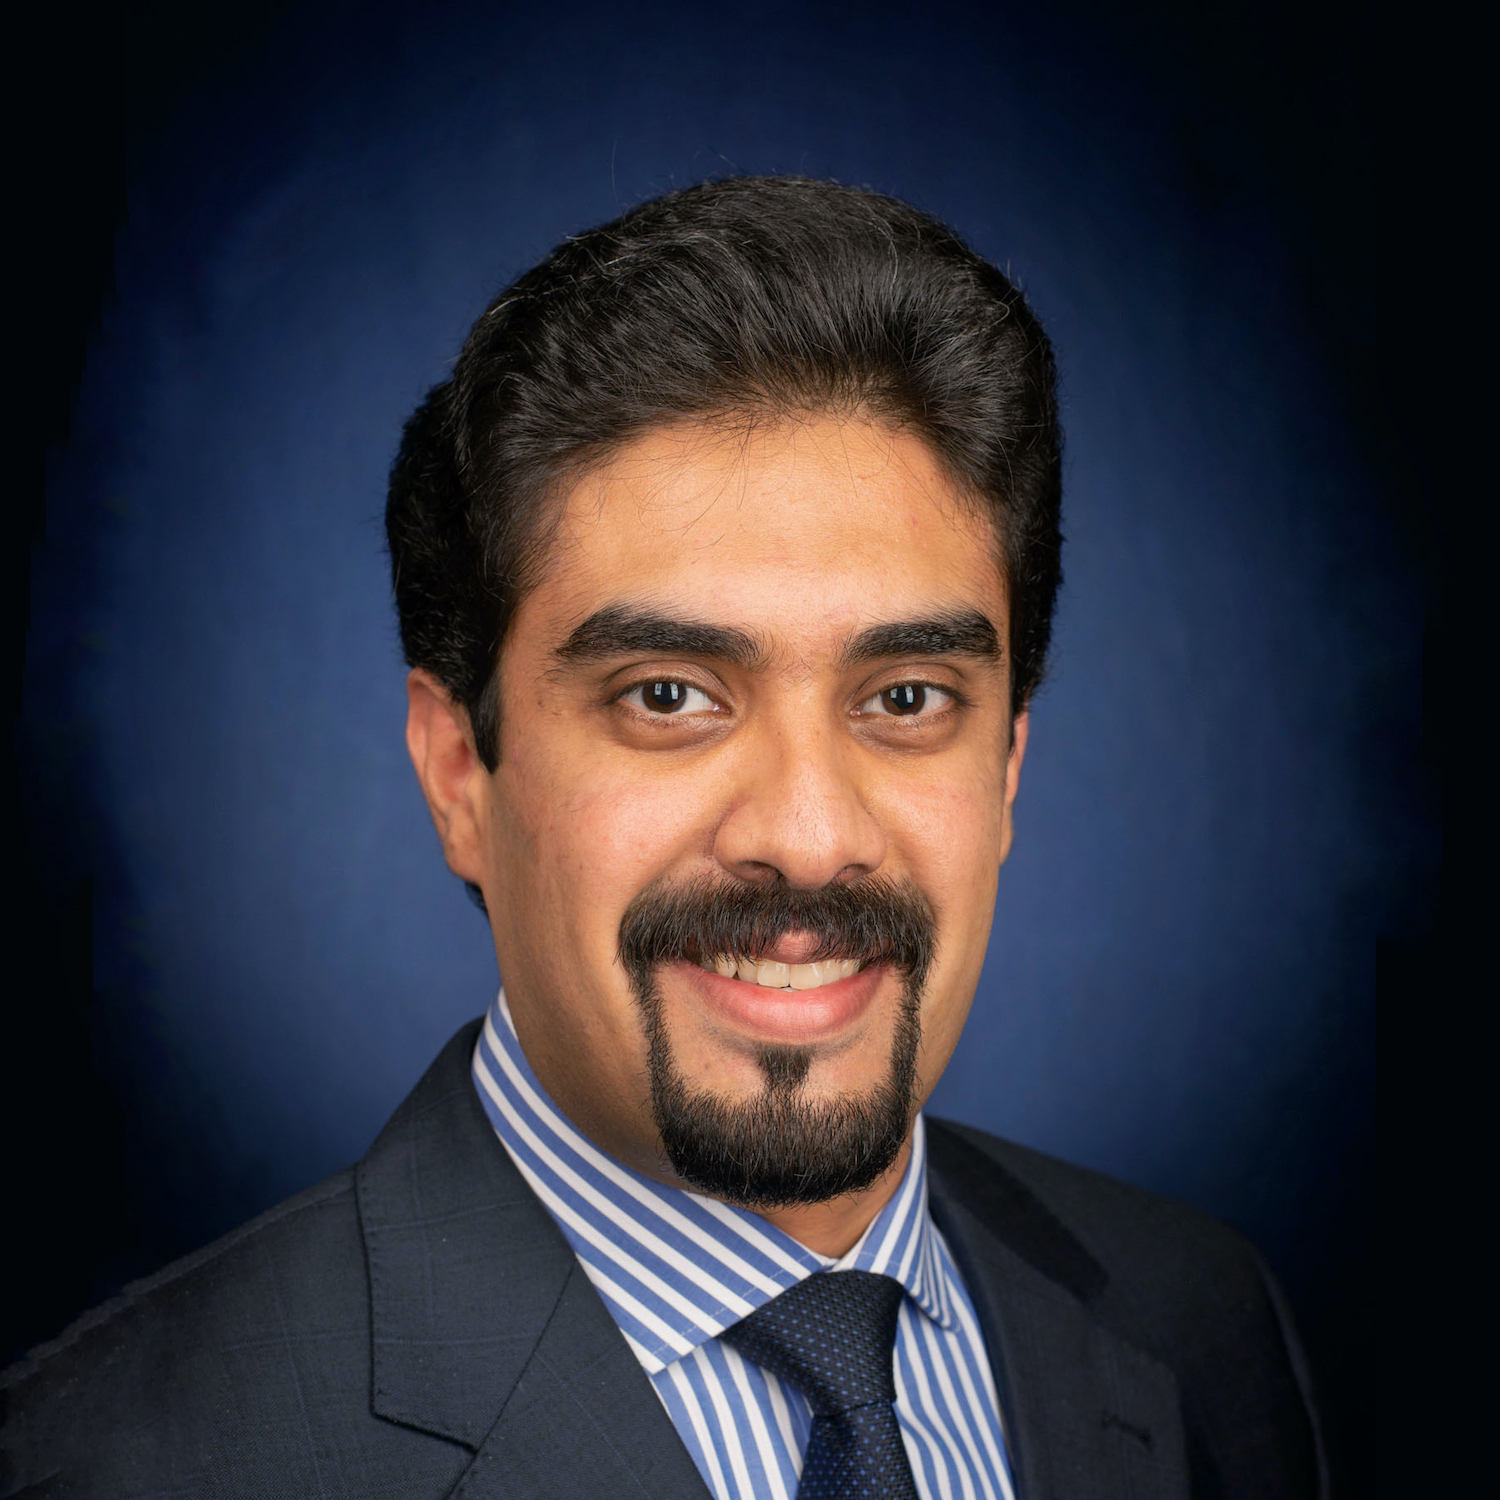
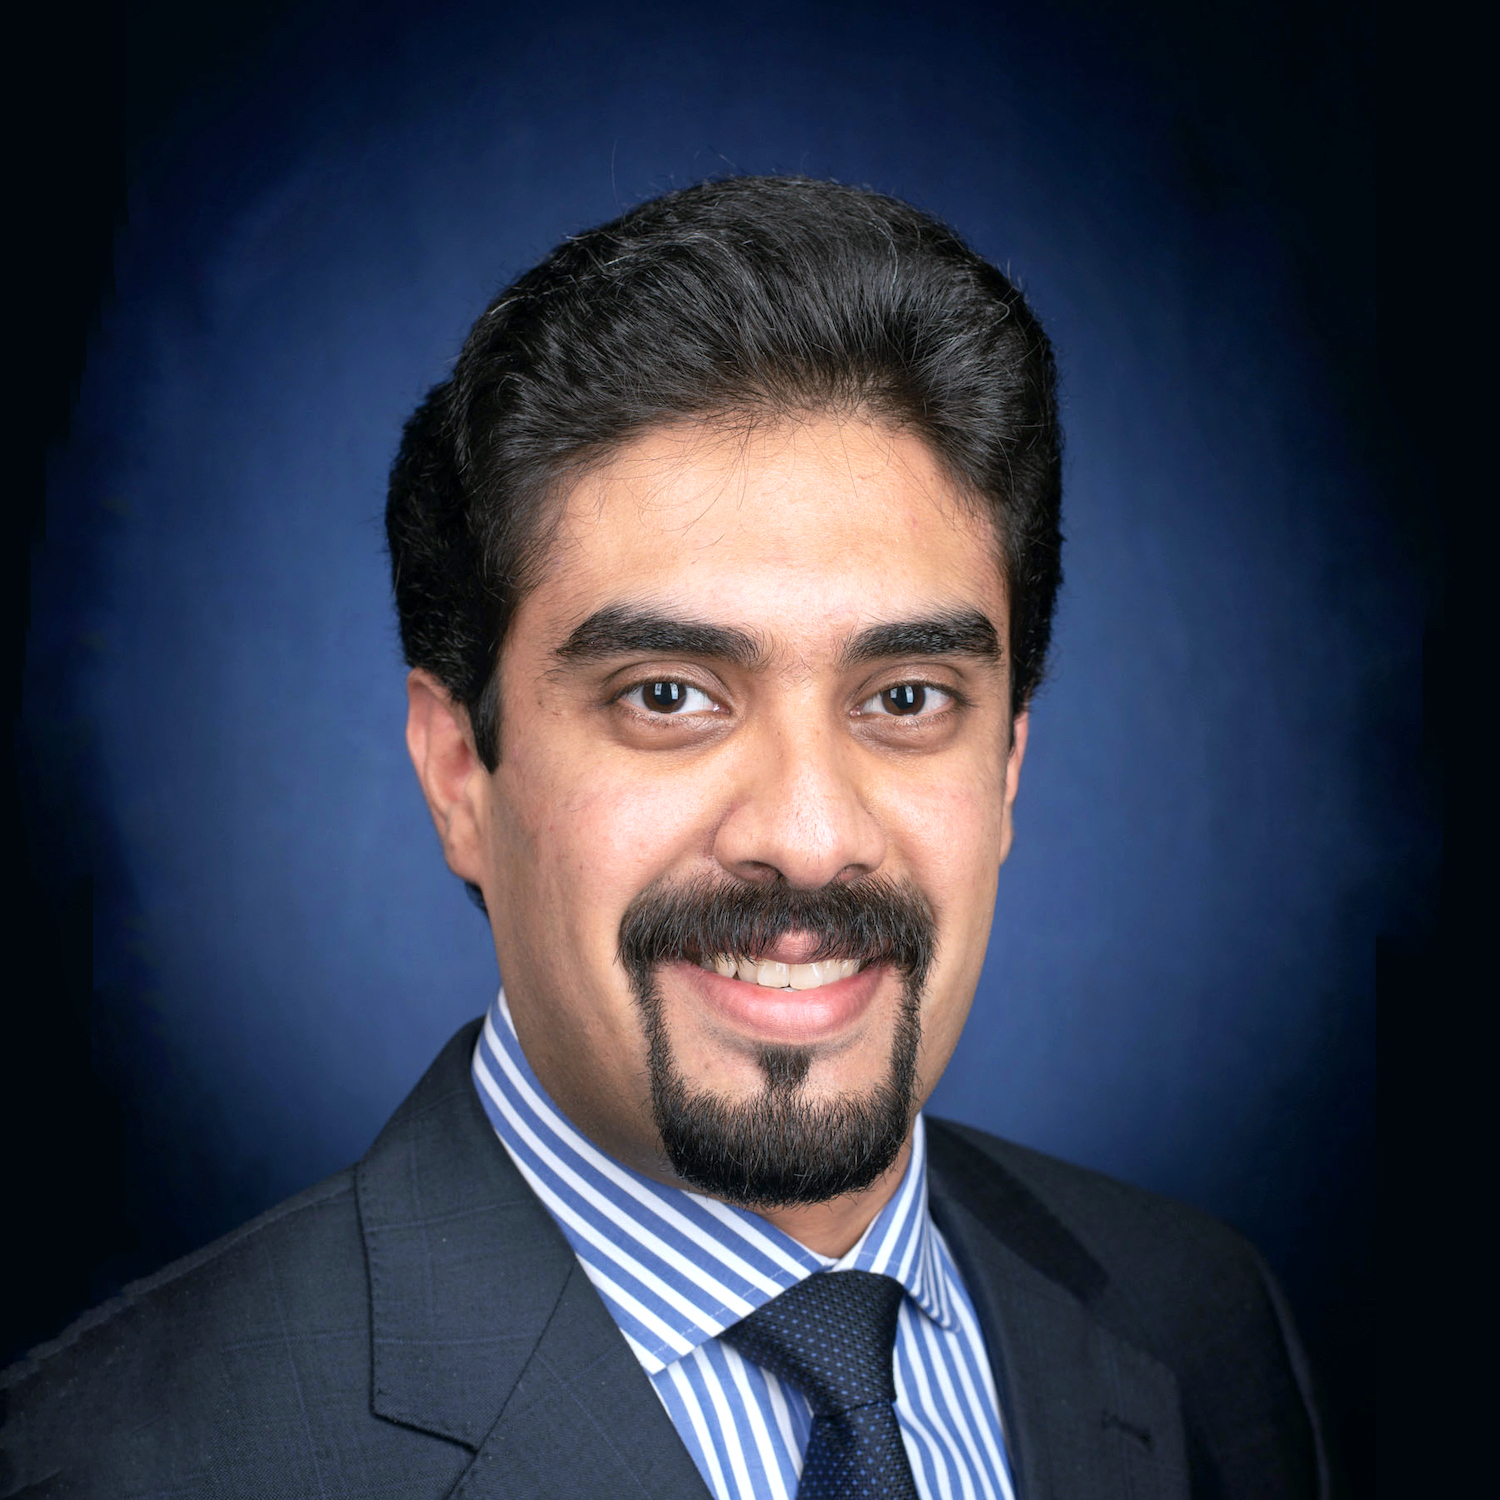
rebuilding site Fri Feb  7 17:37:21 EST 2020

Changed region(s): [[0.184, 0.2453, 0.7667, 1.0]]

diff --git a/authors/admin/index.html b/authors/admin/index.html
@@ -418,7 +418,7 @@
 
       
       
-      <img class="portrait" src="/authors/admin/avatar_hu2ea84e0a7e5a25f587aa28b52376dd8c_1077197_250x250_fill_q90_lanczos_center.jpg" alt="Avatar">
+      <img class="portrait" src="/authors/admin/avatar_hu2ea84e0a7e5a25f587aa28b52376dd8c_1266789_250x250_fill_q90_lanczos_center.jpg" alt="Avatar">
       
 
       <div class="portrait-title">

diff --git a/index.html b/index.html
@@ -479,7 +479,7 @@
 
       
       
-      <img class="portrait" src="/authors/admin/avatar_hu2ea84e0a7e5a25f587aa28b52376dd8c_1077197_250x250_fill_q90_lanczos_center.jpg" alt="Avatar">
+      <img class="portrait" src="/authors/admin/avatar_hu2ea84e0a7e5a25f587aa28b52376dd8c_1266789_250x250_fill_q90_lanczos_center.jpg" alt="Avatar">
       
 
       <div class="portrait-title">
